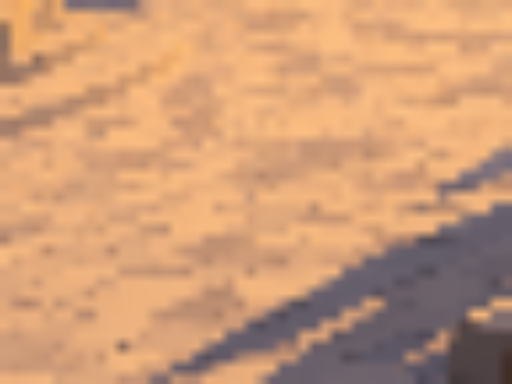
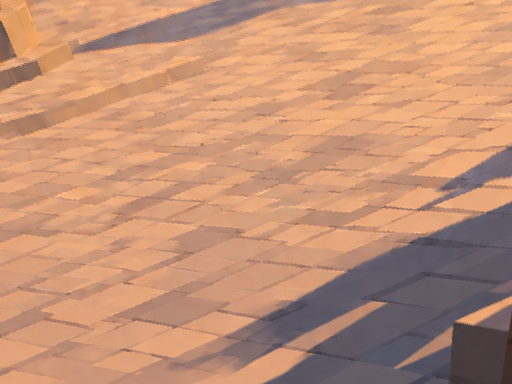
Separate clean arena plate and magic overlay

diff --git a/PLAN.md b/PLAN.md
@@ -10,7 +10,7 @@ The project already has a player controller and earlier gameplay code. The visua
 
 - Use the central paving around both duel participants as the arena. An invisible 3D collision boundary keeps combatants out of the well, stairs, buildings, and foreground props.
 - Use a fixed camera so the static plate and 3D floor remain aligned. The player can move inside the ring but cannot rotate the view.
-- Use the duel plate for the village and fixed magic. Show the opponent with the existing transparent art on a camera-aligned 3D sprite, ready for later animation. Scale the existing 3D paving asset across the duel area and sample the plate from the fixed view, hiding the seam between the arena and background paving.
+- Use a clean static village plate behind the 3D arena, with the magic in an independent transparent layer. Show the opponent with the existing transparent art on a camera-aligned 3D sprite, ready for later animation. The floor has its own UV color; only its rim blends into the fixed plate to hide the seam.
 - Use a transparent illustrated protagonist for the fixed camera. Keep the experimental 3D model in the earlier playable scene until a matching animated asset is produced.
 - Keep UI out of the comparison frame until the protagonist and walking space match the reference.
 
@@ -19,7 +19,8 @@ The project already has a player controller and earlier gameplay code. The visua
 | Priority | Deliverable | Minimum production approach |
 | --- | --- | --- |
 | Done | Cleaned background plate | Image edit of the annotated reference; removes the drawn oval, red note, HUD, and foreground protagonist. Saved as `game/art/village_backdrop.png`. |
-| Done | Duel plate and static opponent | `game/art/village_duel_empty.png` retains the village and fixed magic without any character. `game/art/opponent_static.png` is a transparent, independent pose placed in 3D depth. The earlier combined plate remains as a reference. |
+| Done | Clean duel plate and static opponent | `game/art/village_duel_clean.png` has no combat magic or character. `game/art/opponent_static.png` remains a separate 3D pose. The earlier plate with baked magic remains only as a reference asset. |
+| In review | Independent static magic | `game/art/duel_magic_layer.png` holds the energy, dust, airborne stones, and papers on transparency. The [composed](docs/visual-progress/arena-layers-composed.png) and [clean](docs/visual-progress/arena-layers-clean.png) captures show that it can be removed without exposing painted magic in the floor or village. |
 | Done | Duel arena and boundary | `game/art/arena_paving.glb` covers the duel floor with fixed-view paving color. An invisible 3D collision ring contains the protagonist and future 3D combatants. |
 | In review | Protagonist | The approved raised-hand pose remains the rear idle view. Matching front and side poses and two strides per direction appear in the [idle capture](docs/visual-progress/protagonist-motion-idle.png) and [walk capture](docs/visual-progress/protagonist-motion-walk.png). The earlier 3D model remains in the playable prototype. |
 | In review | Foot contact and framing | The illustrated poses share a foot baseline and contact shadow. The revised spawn allows movement toward the center and directly to the right. A real-input route reached the center, approached the opponent, stopped at the wall, and returned without leaving the frame. Close overlap with the fixed opponent pose, limited walk frames, and the static background perspective still need player review. |
@@ -27,16 +28,16 @@ The project already has a player controller and earlier gameplay code. The visua
 
 The completed arena rows describe a functional visual baseline, not final asset approval. Before gameplay mechanics, produce and visually review these remaining assets in order:
 
-1. **Shaded 3D paving (in review).** The arena now uses shallow 3D relief shaped from the existing painted stone contrast, a UV color texture, and restrained scene-light contribution. The fixed magic and rim still blend with the duel plate because a fully independent UV color created doubled paving lines in the fixed view. The [spawn capture](docs/visual-progress/arena-paving-spawn.png) and [movement capture](docs/visual-progress/arena-paving-movement.png) show no visible arena edge or foot clipping. The depth is intentionally subtle; review it at game scale before accepting this visual gate.
+1. **Shaded 3D paving (in review).** The arena uses shallow 3D relief, a sharp UV color texture derived from the clean duel plate, and restrained scene-light contribution. The UV floor now supplies the central color; only its rim fades into the static village. The [clean capture](docs/visual-progress/arena-layers-clean.png) shows no baked magic under the floor. The depth is still subtle and needs a separate visual refinement before accepting this gate.
 2. **Arena-edge details (in review).** A small GLB now places faceted stones, broken timber, and a wooden bucket on empty painted paving beyond the left arena boundary. Existing static foreground props cover the right side, so a candidate right-hand cluster was removed after it appeared in front of a painted crate. The [spawn capture](docs/visual-progress/arena-edge-spawn.png) and [left-limit capture](docs/visual-progress/arena-edge-left.png) show no duplicate object or hidden combatant. A real-input route still reached the center and both barriers; the new details have no collision and do not narrow it. Review their scale and color before accepting this visual gate.
-3. **Independent magic assets.** Separate only the combat-area glow, dust, papers, and debris that need motion from the background plate; use restrained 2D/3D layers that match its illustrated palette. Gate: the effect reads at spawn and across the arena without duplicate baked elements or loss of character visibility. This is visual asset work, not ability gameplay.
+3. **Independent magic assets.** The combat effect is now one static transparent layer over a clean plate and UV floor. Split the glow, dust, papers, and debris that need individual motion into restrained 2D/3D layers. Gate: the effect reads at spawn and across the arena without duplicate baked elements or loss of character visibility. This is visual asset work, not ability gameplay.
 4. **Two-combatant presentation pack.** Choose one consistent illustrated-sprite or stylized-3D approach for the protagonist and opponent. Complete the poses and supporting assets needed for readable idle, movement, attack, impact, and Power presentation, replacing the opponent's single fixed pose. Gate: both silhouettes remain clear at close range, hold their ground contact, and match the reference across the walkable area. No villagers, visitor, or companion assets belong to this scene.
 
 Keep generation scripts, Blender working files, and temporary renders local and unversioned. Version only approved game-ready assets, engine files needed to load them, and selected in-game captures. Start gameplay mechanics after these four visual gates pass or a remaining gap is explicitly accepted here.
 
 The paving relief and albedo were derived from the project's own clean village plate; no third-party asset was added. The original plate was produced with the built-in image generation edit tool from the user's local annotated reference. Its prompt was: preserve the exact village composition, architecture, people, magic, light and paving; remove the black oval, red note, foreground protagonist and HUD; reconstruct exposed paving; add no text or new objects. The first duel edit removed the three bystanders; a later pass separated the opponent into a transparent layer over the empty duel plate. The illustrated protagonist was generated from the same local reference as a transparent foreground cutout. The original reference is local and ignored by Git; the selected game-ready images are versioned under `game/art/`. Experimental production files remain local and unversioned.
 
-The edge-detail GLB was modeled locally without third-party assets.
+The edge-detail GLB was modeled locally without third-party assets. The clean duel plate and transparent magic layer were edited with the built-in image generation tool using the existing duel and clean village plates as references; their production inputs remain unversioned.
 
 ## Production sequence and review gates
 
@@ -51,7 +52,7 @@ The edge-detail GLB was modeled locally without third-party assets.
 
 **Keep Compatibility for this milestone.** The project already selects `gl_compatibility` in `project.godot`. A local launch of Godot 4.7.2 on Apple M4 Pro completed successfully with `--rendering-method gl_compatibility`; the engine reported `OpenGL API 4.1 Metal ... Compatibility` and exited without a renderer error.
 
-The actual fixed-camera composite was run and captured in Compatibility on this machine. It uses a canvas backdrop, a 3D floor mesh, ambient and directional lighting, and the existing player controller. The baked magic needs no renderer effect. Compatibility remains sufficient for this scope.
+The actual fixed-camera composite was run and captured in Compatibility on this machine. It uses a canvas backdrop, a 3D floor mesh, ambient and directional lighting, and the existing player controller. The separate static magic layer needs no real-time particle renderer. Compatibility remains sufficient for this scope.
 
 This validates startup and the current composite, not the final protagonist model or frame rate. A fixed plate also means there is no background parallax; the camera must remain fixed. If free camera rotation becomes a requirement, the plate would need to be replaced by 3D scenery or multiple layered views.
 

diff --git a/README.md b/README.md
@@ -13,7 +13,7 @@ The first configured export target is macOS. Install the matching Godot export t
 ## Current v0
 
 - The current visual scene is a fixed-camera duel with only the protagonist and opponent visible. It combines a reference-derived backdrop, a small 3D floor, the existing movement controller, and illustrated poses for idle and walking.
-- The magic remains in `game/art/village_duel_empty.png`; the opponent is a separate, static transparent image in `game/art/opponent_static.png`. The earlier playable episode in `game/main.tscn` still contains its original cast and gameplay.
+- The village background is `game/art/village_duel_clean.png`; magic is a separate transparent layer in `game/art/duel_magic_layer.png`, and the opponent is a separate static image in `game/art/opponent_static.png`. The earlier playable episode in `game/main.tscn` still contains its original cast and gameplay.
 - The visual scene uses `game/art/protagonist_motion.png`, including the approved raised-hand pose at rest and directional walk frames. The earlier playable episode still uses `game/art/protagonist.glb`. Production files stay local and unversioned under `source_assets/`; selected in-game captures are in `docs/visual-progress/`.
 - Combat, quest flow, and localization are deferred until the visual scene is accepted.
 
